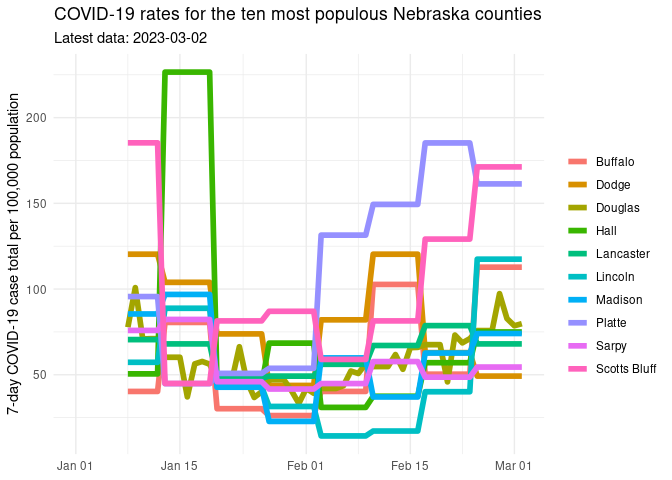
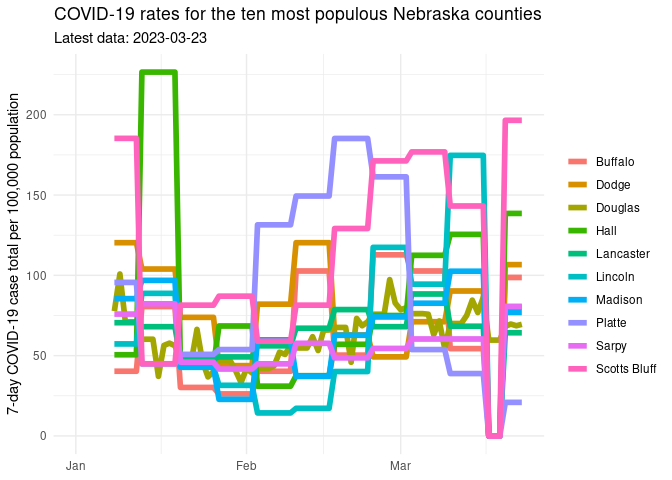
Updated report

diff --git a/README.md b/README.md
@@ -1,7 +1,7 @@
 Nebraska COVID Report
 ================
 
-Report last run: 2023-03-03 21:44:25
+Report last run: 2023-04-06 22:48:17
 
 ## Introduction
 
@@ -42,7 +42,7 @@ rate_data <- county_data %>%
 ### Nebraska
 
 Here is a plot of COVID-19 rates since Jan. 1, 2023 in the 10 most
-populous Nebraska counties:
+populous counties in Nebraska:
 
 ``` r
 ## Identify the top 10 most populous counties
@@ -105,25 +105,25 @@ rate_data %>%
   knitr::kable()
 ```
 
-| county        | state          |    pop | covid_rate |
-|:--------------|:---------------|-------:|-----------:|
-| Loving        | Texas          |    169 |       2367 |
-| Washington    | Mississippi    |  43909 |       1043 |
-| Clark         | Kansas         |   1994 |        802 |
-| Rolette       | North Dakota   |  14176 |        705 |
-| Menominee     | Wisconsin      |   4556 |        658 |
-| Neshoba       | Mississippi    |  29118 |        611 |
-| Rawlins       | Kansas         |   2530 |        593 |
-| Humphreys     | Mississippi    |   8064 |        570 |
-| Traverse      | Minnesota      |   3259 |        552 |
-| Dorchester    | South Carolina | 162809 |        527 |
-| Keweenaw      | Michigan       |   2116 |        520 |
-| Lawrence      | Mississippi    |  12586 |        509 |
-| Madison       | Mississippi    | 106272 |        472 |
-| Walthall      | Mississippi    |  14286 |        469 |
-| Franklin      | Mississippi    |   7713 |        454 |
-| Concho        | Texas          |   2726 |        440 |
-| Warren        | Mississippi    |  45381 |        427 |
-| Marion        | Mississippi    |  24573 |        427 |
-| Oglala Lakota | South Dakota   |  14177 |        423 |
-| Webster       | Mississippi    |   9689 |        413 |
+| county                   | state         |   pop | covid_rate |
+|:-------------------------|:--------------|------:|-----------:|
+| Major                    | Oklahoma      |  7629 |      10067 |
+| McIntosh                 | Oklahoma      | 19596 |       4241 |
+| Hansford                 | Texas         |  5399 |        704 |
+| Cimarron                 | Oklahoma      |  2137 |        702 |
+| Latimer                  | Oklahoma      | 10073 |        536 |
+| Harmon                   | Oklahoma      |  2653 |        528 |
+| Pecos                    | Texas         | 15823 |        487 |
+| Douglas                  | South Dakota  |  2921 |        479 |
+| Yoakum                   | Texas         |  8713 |        448 |
+| Haskell                  | Oklahoma      | 12627 |        443 |
+| Northwest Arctic Borough | Alaska        |  7621 |        420 |
+| Dewey                    | South Dakota  |  5892 |        390 |
+| Menifee                  | Kentucky      |  6489 |        385 |
+| Hyde                     | South Dakota  |  1301 |        384 |
+| Barnes                   | North Dakota  | 10415 |        384 |
+| Wirt                     | West Virginia |  5821 |        378 |
+| St. Croix                | Wisconsin     | 90687 |        371 |
+| Thurston                 | Nebraska      |  7224 |        360 |
+| Bethel Census Area       | Alaska        | 18386 |        354 |
+| Dewey                    | Oklahoma      |  4891 |        348 |
